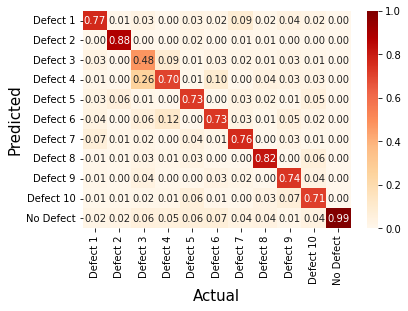
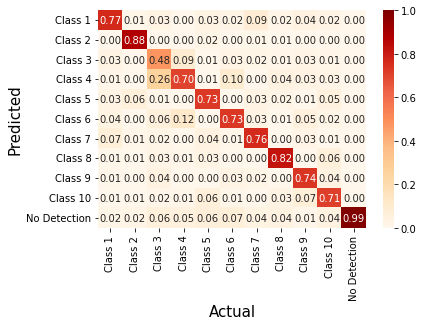
Chart labels

diff --git a/metrics.py b/metrics.py
@@ -14,9 +14,9 @@ def confusion_matrix(actual, pred, n_classes) -> pd.DataFrame:
 def apply_names(conf_matrix: pd.DataFrame) -> None:
     n_classes = len(conf_matrix)
     if n_classes == 2:
-        names = ["Defect", "No Defect"]
+        names = ["Detection", "No Detection"]
     else:
-        names = [f"Defect {i}" for i in range(1, n_classes)] + ["No Defect"]
+        names = [f"Class {i}" for i in range(1, n_classes)] + ["No Detection"]
     conf_matrix.columns = names
     conf_matrix.index = names
     return conf_matrix
